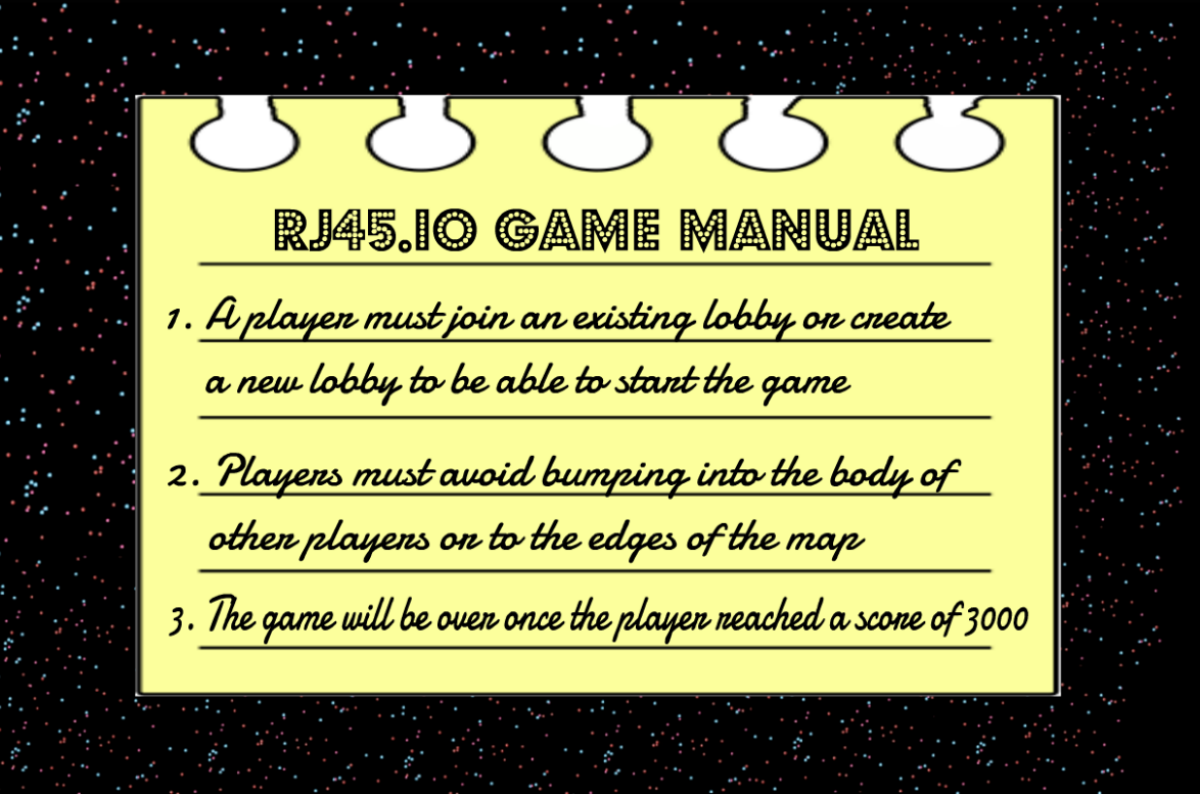
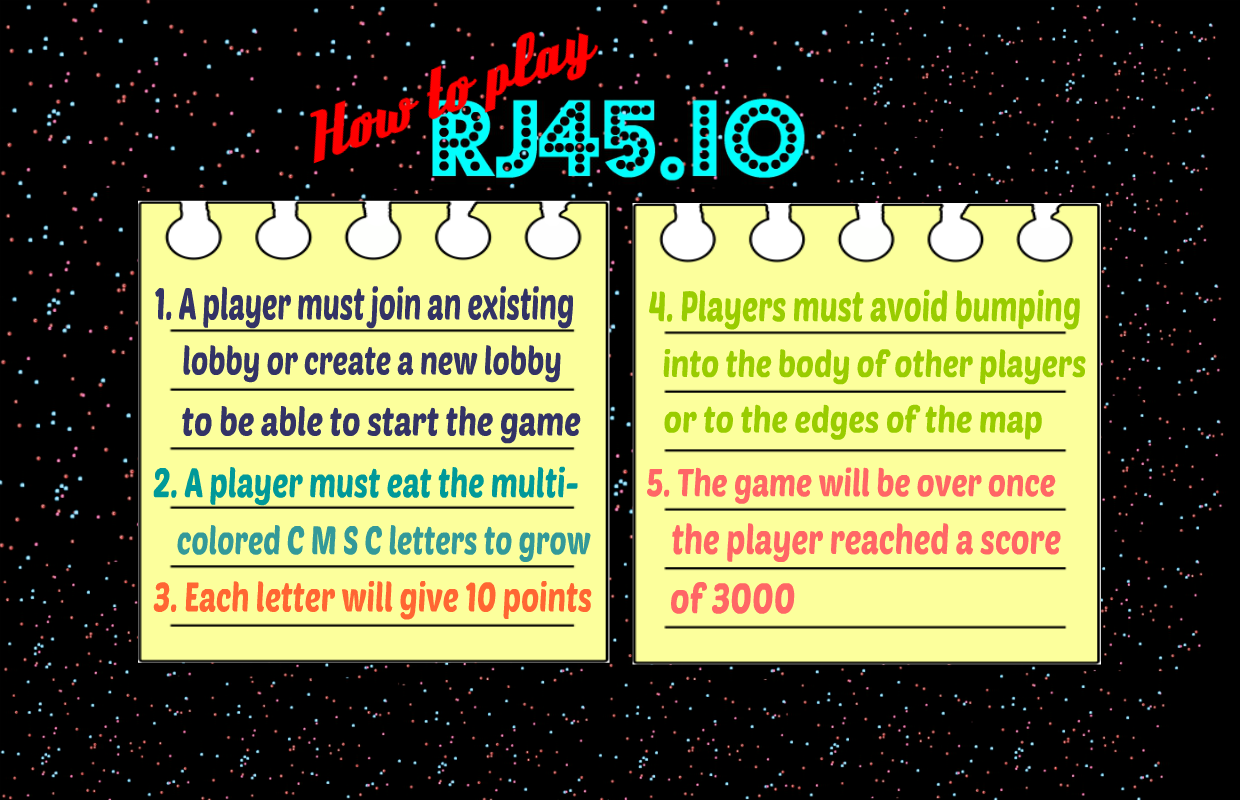
changed how to play, added manual .txt

diff --git a/GamePanel.java b/GamePanel.java
@@ -47,6 +47,7 @@ public class GamePanel extends JPanel implements KeyListener, MouseMotionListene
 	Image img3 = Toolkit.getDefaultToolkit().getImage("images/food1.png");
 
 	Image img4 = Toolkit.getDefaultToolkit().getImage("images/bricks.png");
+  Image img5 = Toolkit.getDefaultToolkit().getImage("images/galaxy.png");
 
 	Boolean inGame = true;
 
@@ -59,7 +60,7 @@ public class GamePanel extends JPanel implements KeyListener, MouseMotionListene
 
 	public GamePanel(GameGUI mainGUI){
 		this.mainGUI = mainGUI;
-		this.setBackground(Color.BLACK);
+		this.setBackground(Color.RED);
     this.setPreferredSize(new Dimension(900,700));
     this.addKeyListener(this);
 		this.addMouseMotionListener(this);
@@ -123,7 +124,9 @@ public class GamePanel extends JPanel implements KeyListener, MouseMotionListene
             first = listOfDots.get(i);
             if(i==listOfDots.size()-1){
                 g2.setColor(Color.WHITE);
+                //g2.drawImage(img5, last.x, last.y, null);
                 g2.drawLine(first.x, first.y, last.x, last.y);
+
             }else{
                 g2.setColor(Color.BLUE);
                 g2.drawLine(first.x, first.y, last.x, last.y);
@@ -172,7 +175,7 @@ public class GamePanel extends JPanel implements KeyListener, MouseMotionListene
                 e.printStackTrace();
             }
             checkCollision();
-            if(foods.size() < 150)
+            if(foods.size() < 200)
                 foods.add(new Point(r.nextInt(900), r.nextInt(900)));
             a = MouseInfo.getPointerInfo();
             Point p = a.getLocation();
@@ -199,7 +202,7 @@ public class GamePanel extends JPanel implements KeyListener, MouseMotionListene
                     size++;
                 }
 
-                if(playerscore==1000){
+                if(playerscore==3000){
                     inGame = false;
                     repaint();
                     break;

diff --git a/GameGUI.java b/GameGUI.java
@@ -36,6 +36,9 @@ import javax.swing.BorderFactory;
 
 public class GameGUI{
   JFrame mainFrame = new JFrame("RJ45.io");
+  
+
+
   JPanel chatPanel = new JPanel();
   JPanel statPanel = new JPanel();
   JPanel homePanel = new JPanel(){
@@ -287,7 +290,7 @@ public class GameGUI{
     
     JButton back = new JButton("BACK");
 
-    back.setBounds(850,640,150,50);
+    back.setBounds(880,620,150,50);
     back.setOpaque(false);
     back.setForeground(Color.RED);
     back.setFont(new Font("Helvetica", Font.BOLD, 25));
@@ -388,6 +391,7 @@ public class GameGUI{
   }
 
   public void putChatGamePanel(JPanel toBeRemoved){
+   
     mainFrame.remove(toBeRemoved);
     mainFrame.getContentPane().add(chatPanel, BorderLayout.WEST);
     mainFrame.setBackground(Color.BLACK);
